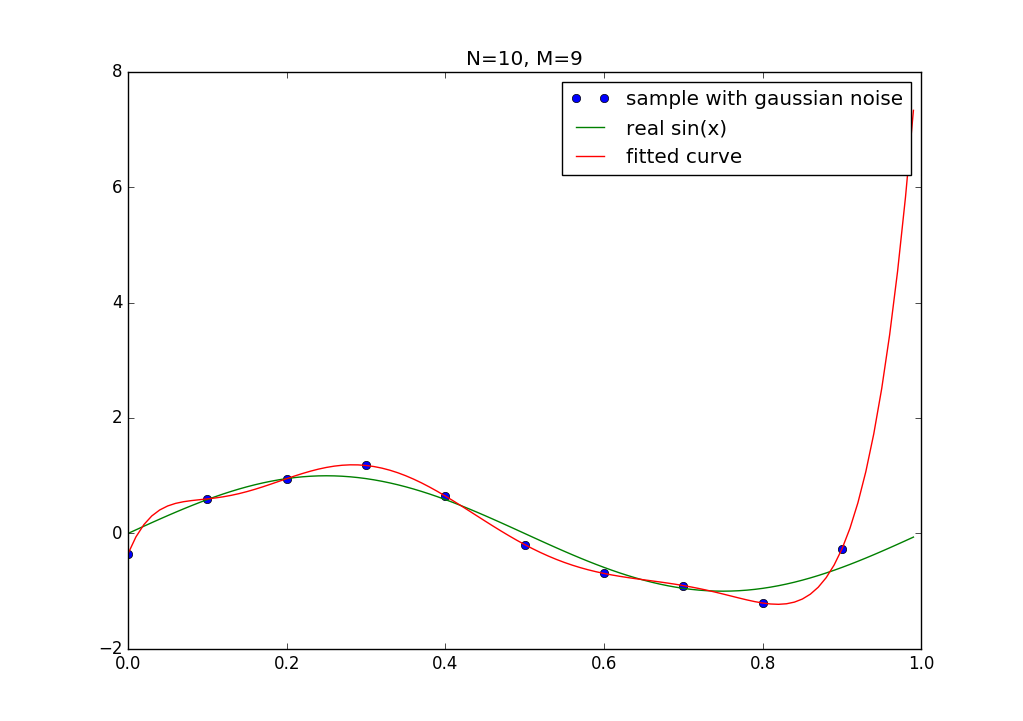
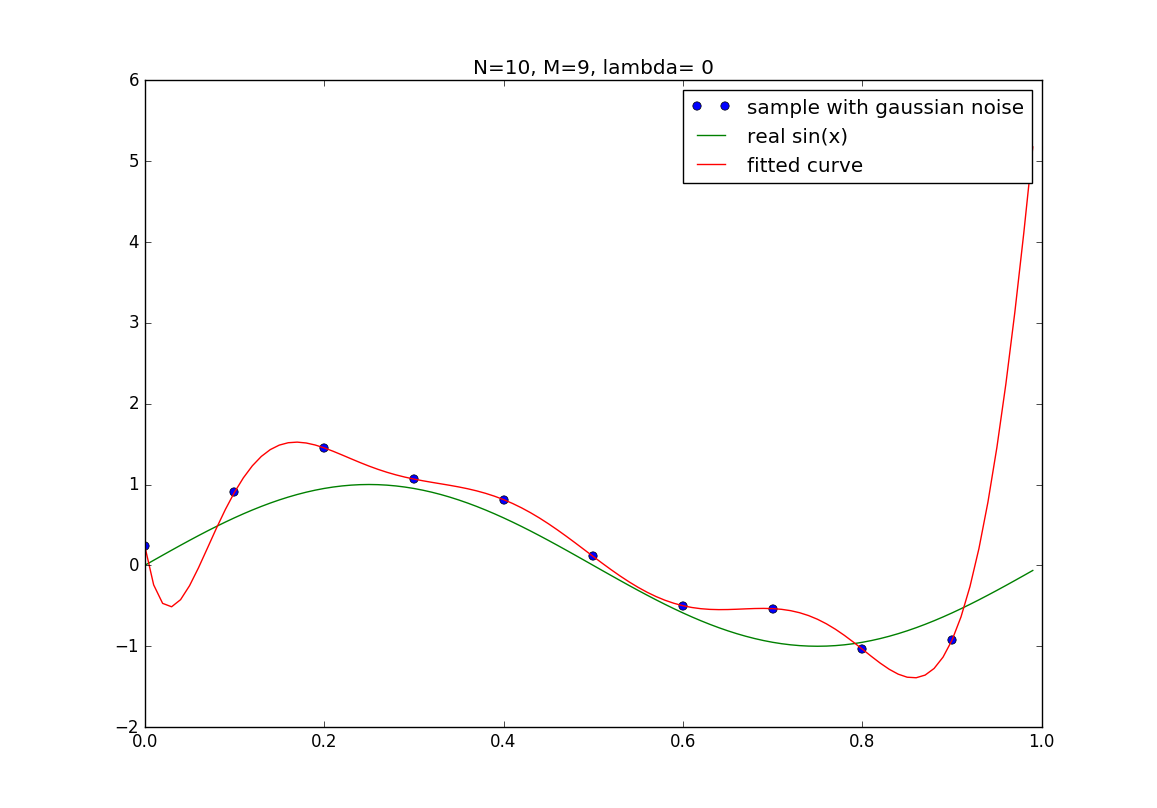
homework1 reg
add regularization for regression

diff --git a/homework1_regression.py b/homework1_regression.py
@@ -7,9 +7,11 @@ _floatX = np.float32
 
 class CurveFitting(object):
 
-    def __init__(self, n, m):
+    def __init__(self, n, m, lr, lm):
         self.n = n
         self.m = m + 1
+        self.lr = lr
+        self.lm = lm
         self.x = np.zeros((self.n, 1), dtype=_floatX)
         self.y = np.zeros((self.n, 1), dtype=_floatX)
         self.w = np.zeros((self.m, 1), dtype=_floatX)
@@ -25,19 +27,21 @@ class CurveFitting(object):
         for i in range(self.m):
             self.data[:, i] = self.data[:, i] ** i
 
-    def regression_gradient_descent(self, max_iter, lr):
+    def regression_gradient_descent(self, max_iter):
 
         for i in range(max_iter):
             h_theta_x = np.dot(self.data, self.w)
-            loss = ((h_theta_x - self.y) ** 2).sum() / 2
+            loss = ((h_theta_x - self.y) ** 2).sum() / 2 + self.lm * 1/2 * (self.w[1:-1]**2).sum()
             if i % 1000 == 0:
+                self.lr *= 0.9
                 print("current iter is: ...", i, "current loss is: ...", loss)
-            self.w = self.w - lr * np.dot(self.data.T, (h_theta_x - self.y))
+            gradient = np.dot(self.data.T, (h_theta_x - self.y)) + self.lm * self.w
+            self.w -= self.lr * gradient
 
     def regression_normal_equation(self):
-        self.w = np.linalg.inv(np.dot(self.data.T, self.data)).dot(self.data.T).dot(self.y)
+        self.w = np.linalg.inv(np.dot(self.data.T, self.data) + self.lm * np.identity(self.m)).dot(self.data.T).dot(self.y)
         h_theta_x = np.dot(self.data, self.w)
-        loss = ((h_theta_x - self.y) ** 2).sum() / 2
+        loss = ((h_theta_x - self.y) ** 2).sum() / 2 + self.lm * 1/2 * (self.w[1:-1]**2).sum()
         print("using normal equation, loss is: ", loss)
 
     def plot(self):
@@ -53,19 +57,23 @@ class CurveFitting(object):
         plt.plot(self.x, self.y, 'o', label='sample with gaussian noise')
         plt.plot(x_sample, y_sample, label='real sin(x)')
         plt.plot(x_sample, h_sample, label='fitted curve')
-        plt.title('N=%s, M=%s' % (self.n, self.m-1))
+        plt.title('N=%s, M=%s, lambda= %s' % (self.n, self.m-1, self.lm))
         plt.legend()
         plt.show()
 
 if __name__ == '__main__':
-    max_iter = 100000
+
+    n = 10
+    m = 9
     lr = 0.1
-    cf = CurveFitting(10, 9)
+    lm = 1
+    cf = CurveFitting(n, m, lr, lm)
+    max_iter = 100000
     cf.generate_data()
     # choice can be 'gd' or 'ne'
     choice = 'ne'
     if 'gd' == choice:
-        cf.regression_gradient_descent(max_iter, lr)
+        cf.regression_gradient_descent(max_iter)
     elif 'ne' == choice:
         cf.regression_normal_equation()
     else:
